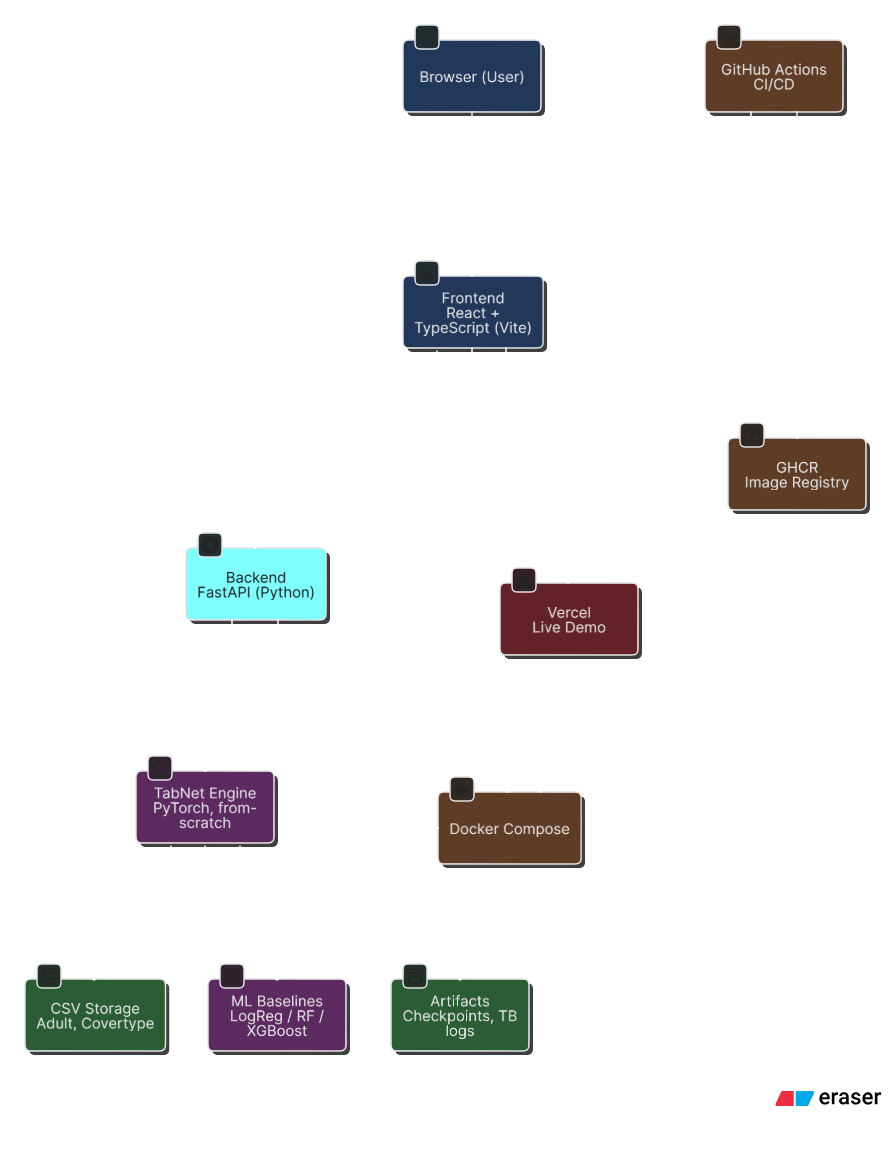
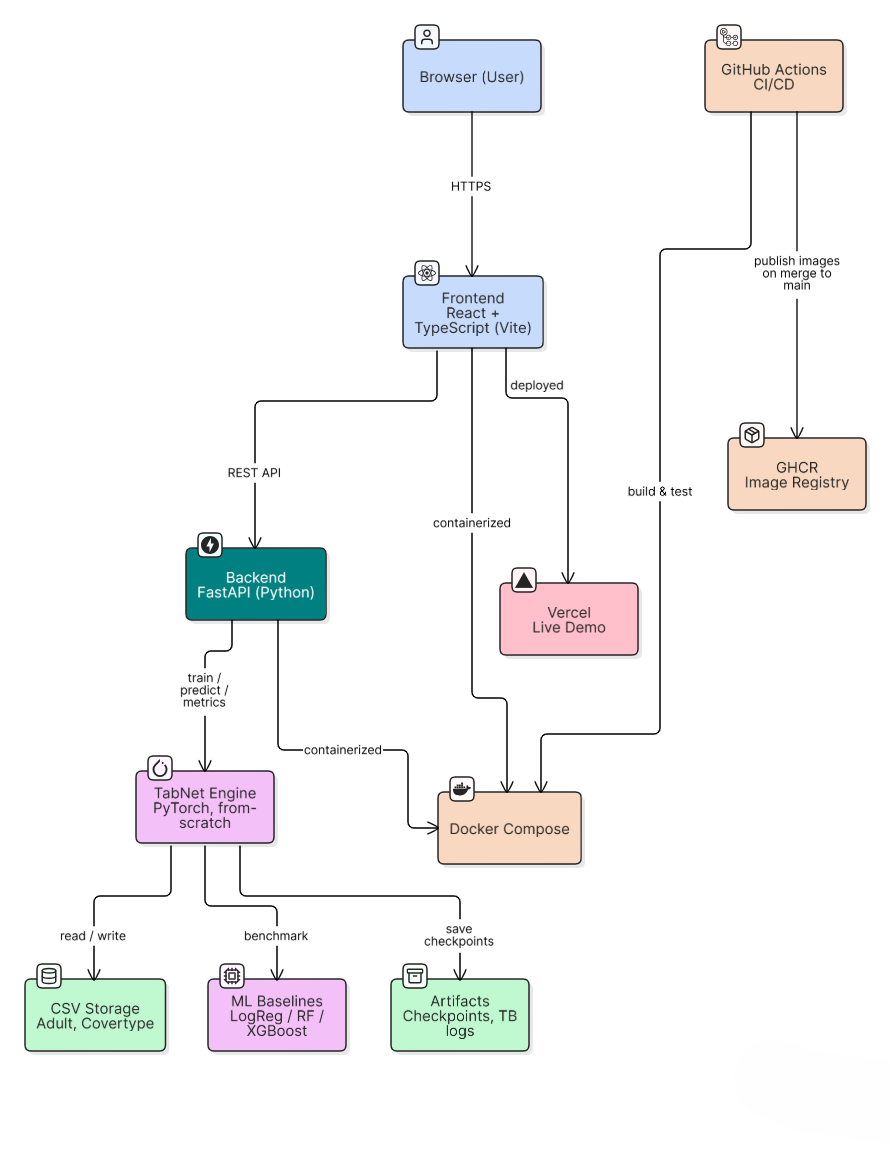
docs: add architecture diagrams and update benchmark table format in README

diff --git a/README.md b/README.md
@@ -31,12 +31,12 @@ This is **not** a wrapper around an existing library. Every component is impleme
 
 Classification performance, execution metrics, and storage footprints benchmarked on the **Adult Census Income** dataset ($N = 32,561$ rows, 14 features):
 
-| Model | Accuracy | F1-Score | ROC-AUC | Training Time | Inference Latency (Batch) | Model Size |
+| Model | Accuracy | F1-Score | Training Time | Inference Latency (Batch) | Model Size |
 |---|---|---|---|---|---|---|
-| **XGBoost** | **87.16%** | **0.7108** | *TODO* | 0.33s | 24.21 ms | 326 KB |
-| **Random Forest** | 85.56% | 0.6684 | *TODO* | 0.72s | 68.77 ms | 91.4 MB |
-| **Logistic Regression** | 84.94% | 0.6548 | *TODO* | 0.86s | 22.28 ms | 8.1 KB |
-| **TabNet (PyTorch)** | 84.14% | 0.5920 | *TODO* | 31.86s | 151.45 ms | 532 KB |
+| **XGBoost** | **87.16%** | **0.7108** | 0.33s | 24.21 ms | 326 KB |
+| **Random Forest** | 85.56% | 0.6684 | 0.72s | 68.77 ms | 91.4 MB |
+| **Logistic Regression** | 84.94% | 0.6548 | 0.86s | 22.28 ms | 8.1 KB |
+| **TabNet (PyTorch)** | 84.14% | 0.5920 | 31.86s | 151.45 ms | 532 KB |
 
 > **Key Takeaway:** While tree ensembles (XGBoost/Random Forest) train faster on CPUs, TabNet produces instance-wise Sparsemax selection masks $M[i]$ (Eq. 2) that provide step-by-step feature attribution that tree ensembles cannot natively offer.
 
@@ -46,7 +46,7 @@ Classification performance, execution metrics, and storage footprints benchmarke
 
 Below is the computational pipeline of the TabNet forward pass, annotated with paper equation numbers:
 
-![TabNet Architecture Deep Dive](assets/tabnet_architecture.svg)
+![TabNet Architecture Deep Dive](assets/tabnet_architecture.png)
 
 ### Key Sequential Attention Mechanics
 1. **Attentive Transformer (Eq. 2):** Generates sparse selection mask $M[i] = \text{sparsemax}(P[i-1] \odot h_i(a[i-1]))$ using prior context $a[i-1]$.
@@ -65,16 +65,7 @@ Below is the computational pipeline of the TabNet forward pass, annotated with p
 
 ## System Architecture
 
-![System Architecture](assets/system_architecture.svg)
-
-```mermaid
-graph LR
-    Browser([Browser Client]) -->|React 18 + Vite| Frontend[Frontend]
-    Frontend -->|REST API| Backend[FastAPI Backend]
-    Backend -->|PyTorch API| Engine[TabNet Engine]
-    Engine -->|Train / Infer| Data[(CSV Storage)]
-    Engine -->|Benchmarks| Baselines[XGBoost / Sklearn]
-```
+![System Architecture](assets/system_architecture.png)
 
 ---
 
